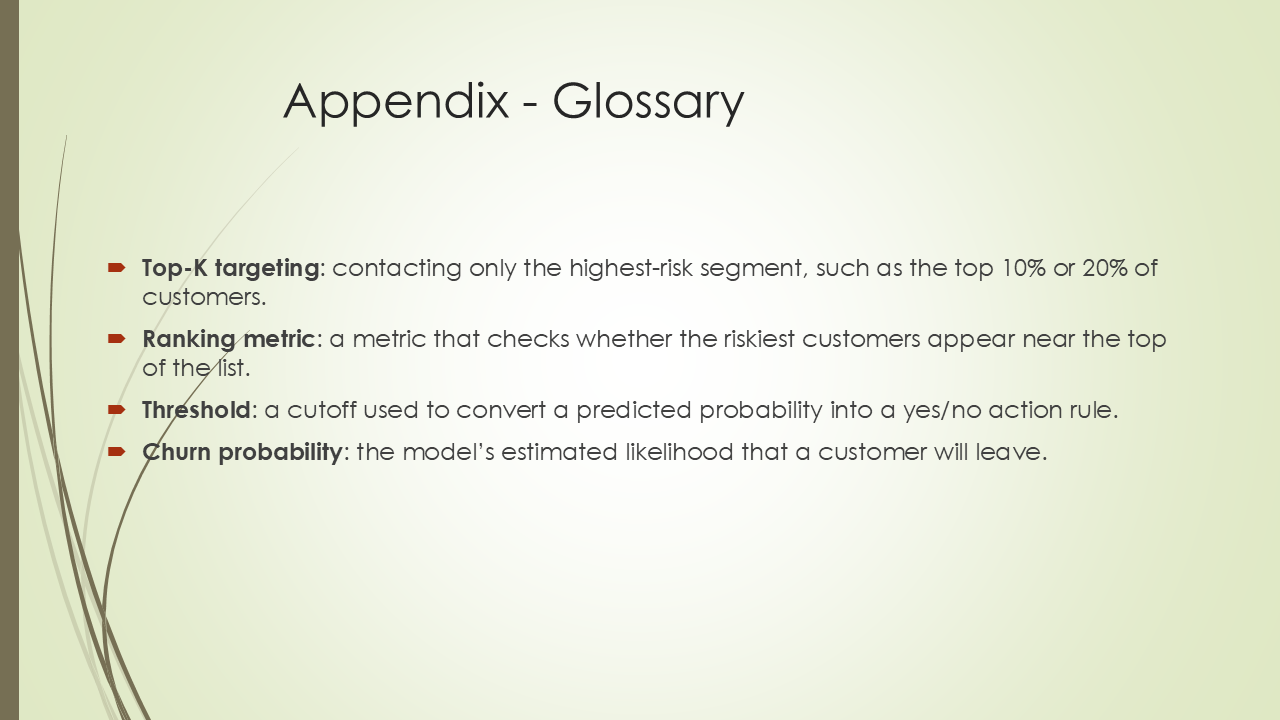
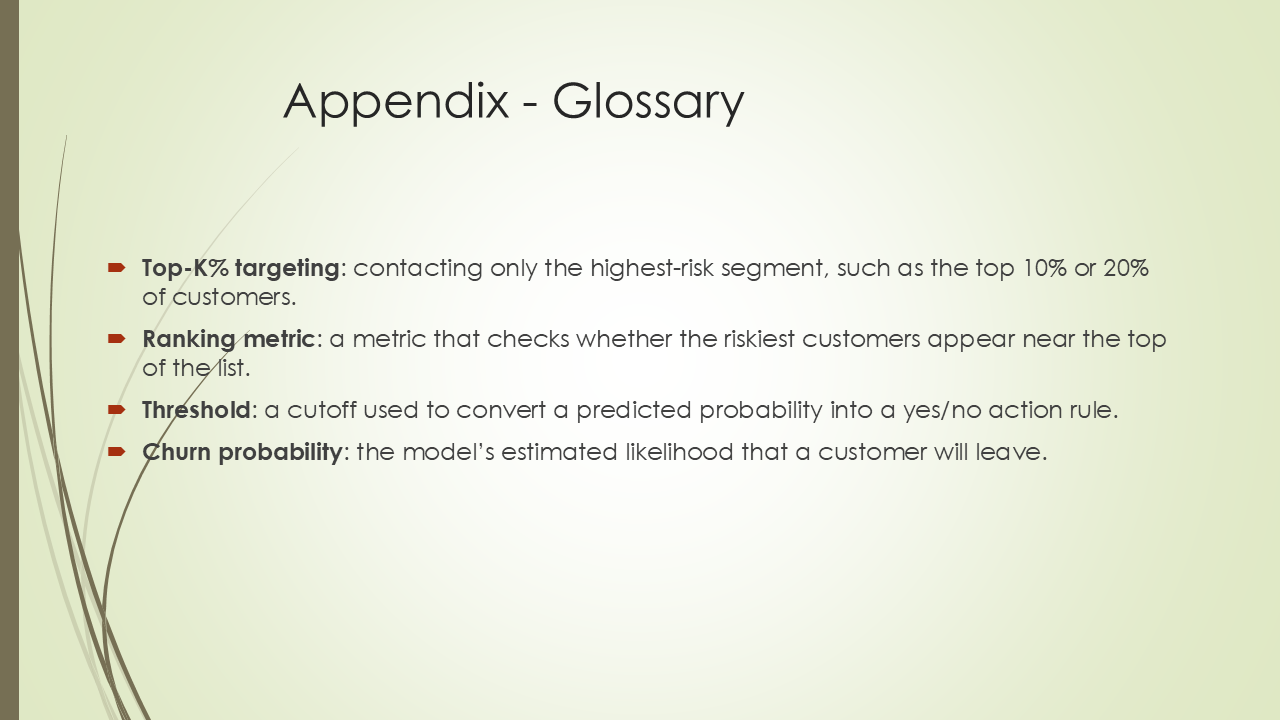
minor doc fix

Changed region(s): [[0.125, 0.3361, 0.9062, 0.4278]]

diff --git a/ml-examples/churn_prediction/churn_problem_framing.md b/ml-examples/churn_prediction/churn_problem_framing.md
@@ -56,7 +56,7 @@ Both formats are kept intentionally. The slides are optimized for presentation a
 ## Metric & Validation
 - Evaluate the model mainly as a ranking tool, not just a yes/no classifier.
 - Use ROC-AUC to assess overall ranking quality.
-- Use Top-K evaluation to measure how many churners are captured within target segments such as the top 10% or 20%.
+- Use Top-K% evaluation to measure how many churners are captured within target segments such as the top 10% or 20%.
 - Use a train-test split so evaluation reflects out-of-sample performance.
 
 ## Approach
